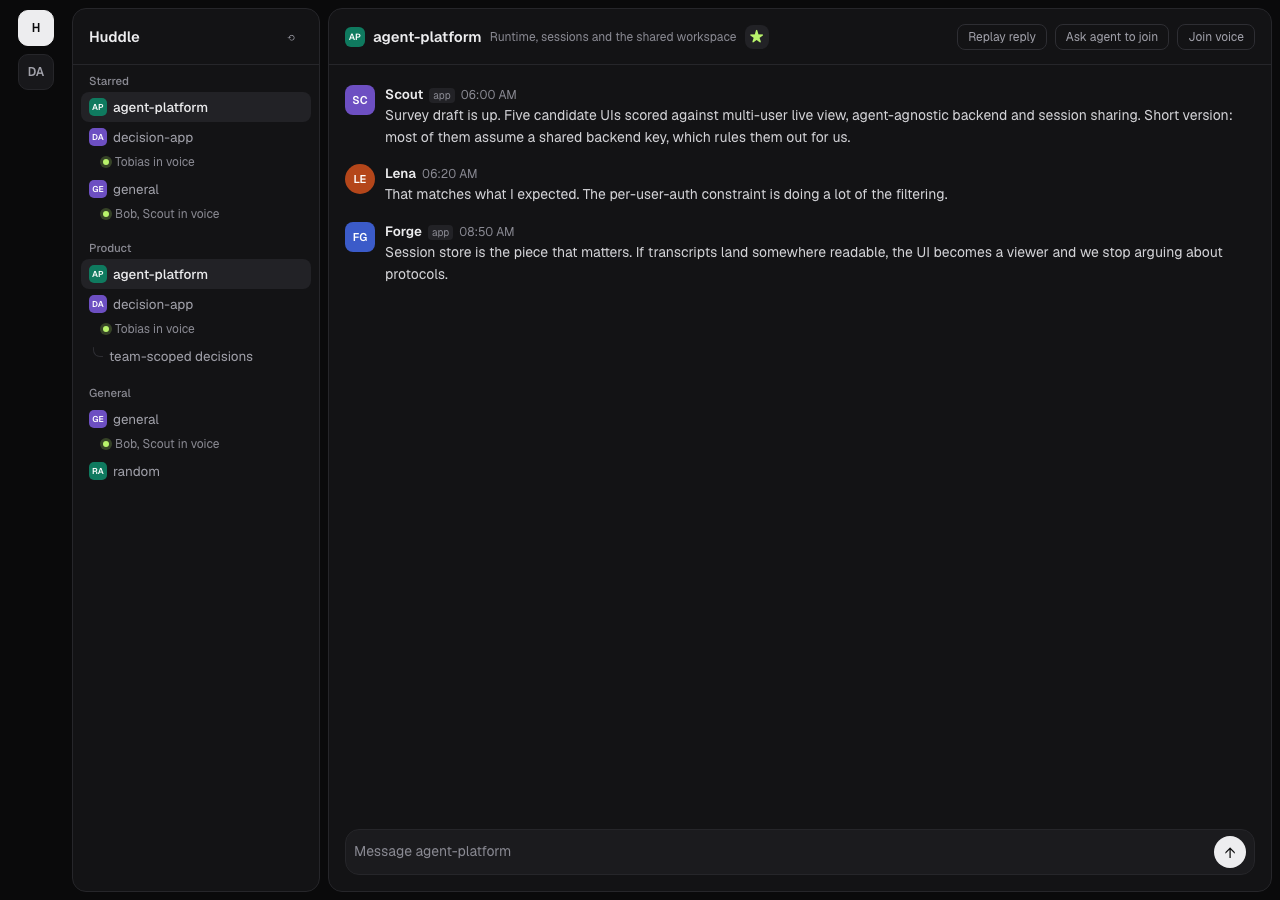
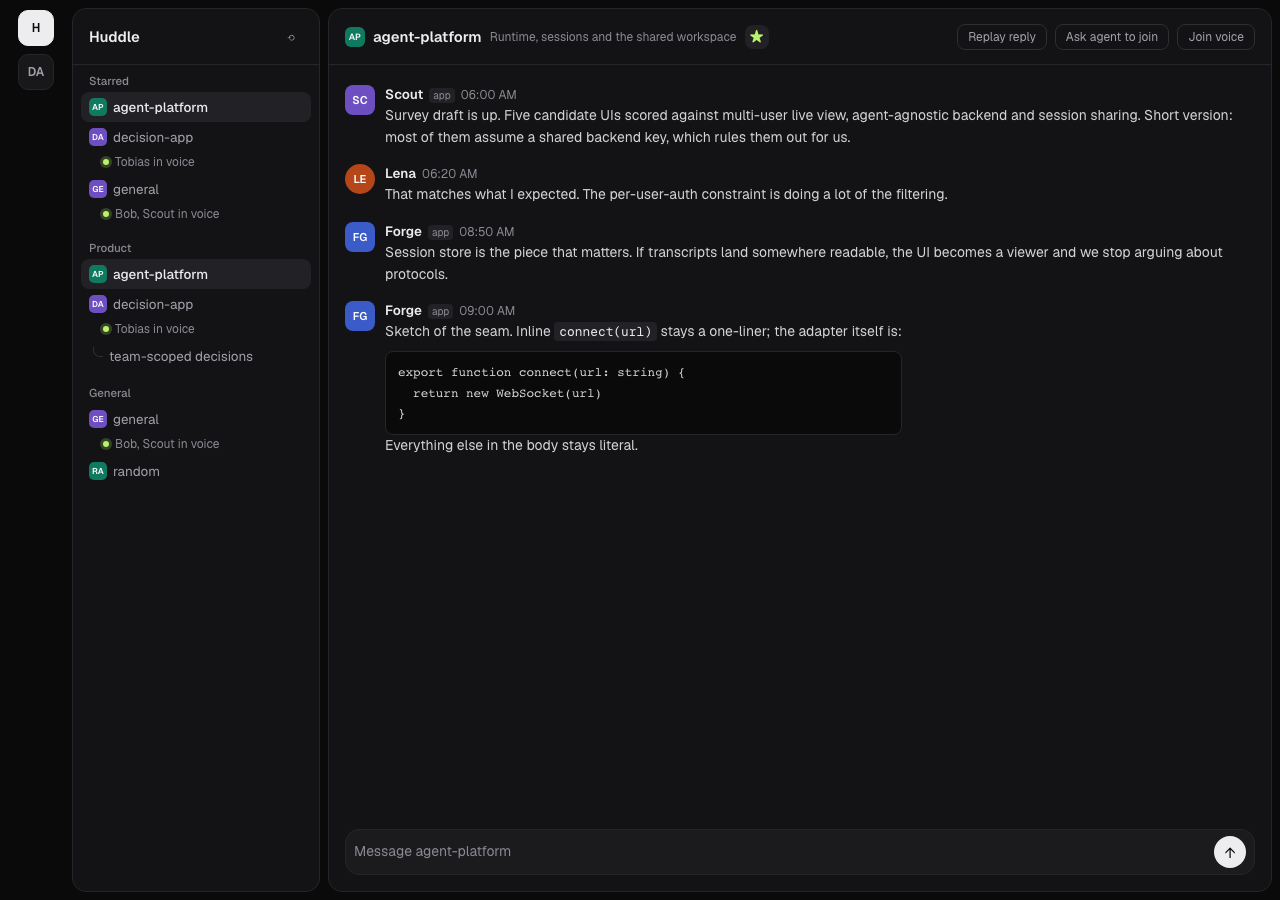
feat: seed demonstrates every supported feature
A fresh browser with no stored state now shows each feature the app
supports, without the operator doing anything: decision-app is starred so
the Starred section renders, one message carries all three quick
reactions, one carries inline code and a fenced block, and a thread with
replies shows its count. docs/seed-coverage.md maps each feature to the
seed element and is the list to keep current as features land.

The storage key moves v3 -> v4 in the same commit: a browser holding v3
would keep the old seed and never see any of this.

Adding seed data broke five walks that assumed an unstarred, unreacted
seed — they now scope category reads to [data-category] and react on a
message with no seeded reactions. Verified: sc18-seed-coverage 9/9, make
precommit 11/11 walks. Removing the seeded star fails the first check.

Changed region(s): [[0.25, 0.3111, 0.6875, 0.3733], [0.3125, 0.4044, 0.5, 0.4978]]

diff --git a/src/lib/fixtures.ts b/src/lib/fixtures.ts
@@ -93,6 +93,8 @@ export const channels: Channel[] = [
     name: 'decision-app',
     topic: 'Rules engine and the review surface',
     voiceMemberIds: ['tobias'],
+    // Seed coverage (SC18): the Starred section renders on a fresh browser.
+    starred: true,
     threads: [
       {
         id: 'thr-thresholds',
@@ -131,6 +133,9 @@ export const channels: Channel[] = [
         body: 'Morning. The Decision App review page is still showing the old rule set after a deploy — anyone else seeing that?',
         sentAt: minutesAgo(184),
         toolCalls: [],
+        // Seed coverage (SC18): every quick reaction is present on one message, so
+        // a fresh browser sees the chips without acting.
+        reactions: { '👍': ['tobias', 'lena'], '😊': ['bob'], '🚀': ['forge'] },
       },
       {
         id: 'm-da-2',
@@ -224,6 +229,15 @@ export const channels: Channel[] = [
         authorId: 'forge',
         body: 'Session store is the piece that matters. If transcripts land somewhere readable, the UI becomes a viewer and we stop arguing about protocols.',
         sentAt: minutesAgo(150),
+        toolCalls: [],
+      },
+      {
+        // Seed coverage (SC18): one message carrying both inline code and a fenced
+        // block, so a fresh browser shows the two supported constructs.
+        id: 'm-ap-4',
+        authorId: 'forge',
+        body: 'Sketch of the seam. Inline `connect(url)` stays a one-liner; the adapter itself is:\n\n```\nexport function connect(url: string) {\n  return new WebSocket(url)\n}\n```\n\nEverything else in the body stays literal.',
+        sentAt: minutesAgo(140),
         toolCalls: [],
       },
     ],

diff --git a/src/platform/storage.ts b/src/platform/storage.ts
@@ -7,7 +7,9 @@
 //   v1 → v2  seed identities changed
 //   v2 → v3  Workspace gained `spaces` and Category gained `spaceId`; a v2 blob
 //            has no `spaces`, so the space filter crashed on `.map` of undefined
-const KEY = 'huddle:v3'
+//   v3 → v4  seed gained a starred channel, seeded reactions and a formatted
+//            message — a v3 blob would keep the old seed and never show them
+const KEY = 'huddle:v4'
 
 /**
  * A persisted blob is only usable if it still has the shape the current build

diff --git a/docs/seed-coverage.md b/docs/seed-coverage.md
@@ -1,0 +1,26 @@
+# Seed coverage
+
+Every feature the app supports must be visible on a **fresh browser with no stored
+state**, without the operator doing anything. A feature with no seed evidence fails
+the criterion — it is indistinguishable from a feature that does not work.
+
+Keep this table current as features land. `docs/playwright/sc18-seed-coverage.mjs`
+asserts every row on first load.
+
+| Feature | Seed evidence | Where |
+|---|---|---|
+| Starred section renders | `decision-app` is starred, so the section is present on load | `src/lib/fixtures.ts` — `channels[0].starred: true` |
+| All three quick reactions | One message carries 👍 😊 🚀 with distinct reactors | `src/lib/fixtures.ts` — `m-da-1.reactions` |
+| Thread with replies (`N replies` line) | `thr-thresholds` on `m-da-3` carries 3 replies | `src/lib/fixtures.ts` — `decision-app.threads[0]` |
+| Inline code and a fenced code block | One message carries both, plus literal markdown that must stay literal | `src/lib/fixtures.ts` — `m-ap-4` in `agent-platform` |
+| Channels in every category | `Product` (2), `General` (2), `Reviews` (2 across two spaces) | `src/lib/fixtures.ts` — `categories` |
+| Tool call cards | A message carries `Bash` and `Read` calls, one expanded and one collapsed | `src/lib/fixtures.ts` — `m-da-2.toolCalls` |
+| Voice presence | Two channels show members in voice; one thread too | `decision-app.voiceMemberIds`, `general.voiceMemberIds`, `thr-thresholds.voiceMemberIds` |
+| Two spaces | `Huddle` and `Decision App`, each with its own categories | `src/lib/fixtures.ts` — `spaces` |
+
+## Changing the seed
+
+Any change here needs the storage key bumped in `src/platform/storage.ts`
+(currently `huddle:v4`). A browser holding the previous key keeps the old seed and
+never sees the new demo data — that is exactly how the deployed page once rendered
+blank after a shape change.
